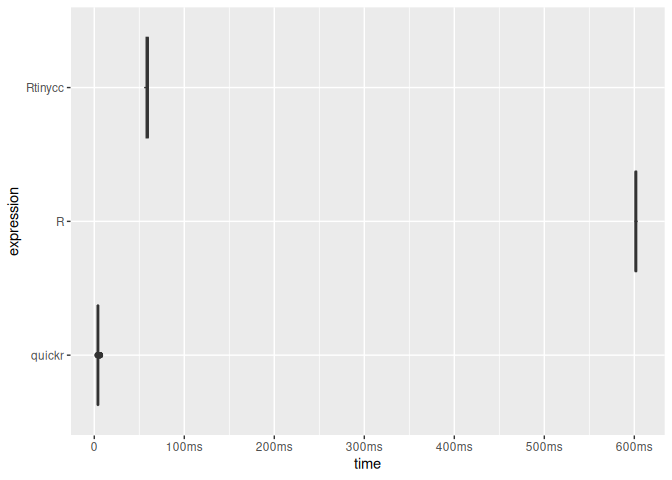
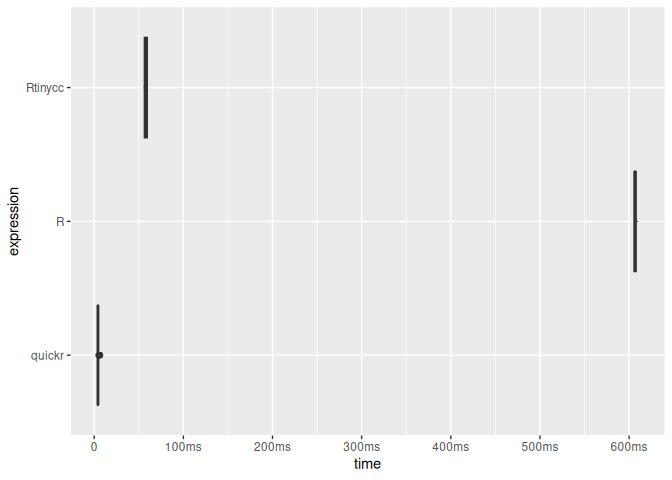
async: api issues

diff --git a/README.md b/README.md
@@ -191,7 +191,7 @@ tcc_read_cstring(ptr)
 tcc_read_bytes(ptr, 5)
 #> [1] 68 65 6c 6c 6f
 tcc_ptr_addr(ptr, hex = TRUE)
-#> [1] "0x5c87880e1b20"
+#> [1] "0x5eb62c5870b0"
 tcc_ptr_is_null(ptr)
 #> [1] FALSE
 tcc_free(ptr)
@@ -222,11 +222,11 @@ through output parameters.
 ptr_ref <- tcc_malloc(.Machine$sizeof.pointer %||% 8L)
 target <- tcc_malloc(8)
 tcc_ptr_set(ptr_ref, target)
-#> <pointer: 0x5c878a4f60a0>
+#> <pointer: 0x5eb62cb28720>
 tcc_data_ptr(ptr_ref)
-#> <pointer: 0x5c87894f6b30>
+#> <pointer: 0x5eb62bde50e0>
 tcc_ptr_set(ptr_ref, tcc_null_ptr())
-#> <pointer: 0x5c878a4f60a0>
+#> <pointer: 0x5eb62cb28720>
 tcc_free(target)
 #> NULL
 tcc_free(ptr_ref)
@@ -289,8 +289,8 @@ bench::mark(
 #> # A tibble: 2 × 6
 #>   expression      min   median `itr/sec` mem_alloc `gc/sec`
 #>   <bch:expr> <bch:tm> <bch:tm>     <dbl> <bch:byt>    <dbl>
-#> 1 Rtinycc      30.8ms   34.8ms      21.4   53.98KB     27.2
-#> 2 Rbuiltin    545.5µs  598.6µs    1579.     9.05KB     28.0
+#> 1 Rtinycc      29.2ms     39ms      23.3   53.98KB     31.0
+#> 2 Rbuiltin    567.7µs    601µs    1571.     9.05KB     28.0
 
 # For performance-sensitive code, move the loop into C and operate on arrays.
 ffi_vec <- tcc_ffi() |>
@@ -319,8 +319,8 @@ bench::mark(
 #> # A tibble: 2 × 6
 #>   expression        min   median `itr/sec` mem_alloc `gc/sec`
 #>   <bch:expr>   <bch:tm> <bch:tm>     <dbl> <bch:byt>    <dbl>
-#> 1 Rtinycc_vec    20.2µs   28.6µs    36328.    39.1KB     25.4
-#> 2 Rbuiltin_vec     17µs   17.7µs    51936.    78.2KB     72.8
+#> 1 Rtinycc_vec    20.2µs   20.7µs    45482.    39.1KB     31.9
+#> 2 Rbuiltin_vec   16.8µs   18.3µs    54908.    78.2KB     77.0
 ```
 
 ### Linking external libraries
@@ -383,7 +383,7 @@ ffi <- tcc_ffi() |>
 
 x <- as.integer(1:100) # to avoid ALTREP
 .Internal(inspect(x))
-#> @5c878bb4dee0 13 INTSXP g0c0 [REF(65535)]  1 : 100 (compact)
+#> @5eb62ffa15d0 13 INTSXP g0c0 [REF(65535)]  1 : 100 (compact)
 ffi$sum_array(x, length(x))
 #> [1] 5050
 
@@ -399,7 +399,7 @@ y[1]
 #> [1] 11
 
 .Internal(inspect(x))
-#> @5c878bb4dee0 13 INTSXP g0c0 [REF(65535)]  11 : 110 (expanded)
+#> @5eb62ffa15d0 13 INTSXP g0c0 [REF(65535)]  11 : 110 (expanded)
 ```
 
 ### Benchmark
@@ -463,9 +463,9 @@ timings
 #> # A tibble: 3 × 6
 #>   expression      min   median `itr/sec` mem_alloc `gc/sec`
 #>   <bch:expr> <bch:tm> <bch:tm>     <dbl> <bch:byt>    <dbl>
-#> 1 R          601.53ms 601.53ms      1.66     847KB    4.99 
-#> 2 quickr       3.63ms   4.07ms    245.       782KB    4.09 
-#> 3 Rtinycc      55.4ms  59.09ms     17.1      782KB    0.504
+#> 1 R          607.24ms 607.24ms      1.65     847KB    4.94 
+#> 2 quickr       3.72ms   4.17ms    240.       782KB    4.10 
+#> 3 Rtinycc     55.34ms  57.79ms     17.3      782KB    0.509
 plot(timings, type = "boxplot") + bench::scale_x_bench_time(base = NULL)
 ```
 
@@ -493,15 +493,15 @@ ffi <- tcc_ffi() |>
 
 p1 <- ffi$struct_point_new()
 ffi$struct_point_set_x(p1, 0.0)
-#> <pointer: 0x5c878d985580>
+#> <pointer: 0x5eb631464140>
 ffi$struct_point_set_y(p1, 0.0)
-#> <pointer: 0x5c878d985580>
+#> <pointer: 0x5eb631464140>
 
 p2 <- ffi$struct_point_new()
 ffi$struct_point_set_x(p2, 3.0)
-#> <pointer: 0x5c878d8a4310>
+#> <pointer: 0x5eb630620010>
 ffi$struct_point_set_y(p2, 4.0)
-#> <pointer: 0x5c878d8a4310>
+#> <pointer: 0x5eb630620010>
 
 ffi$distance(p1, p2)
 #> [1] 5
@@ -546,9 +546,9 @@ ffi <- tcc_ffi() |>
 
 s <- ffi$struct_flags_new()
 ffi$struct_flags_set_active(s, 1L)
-#> <pointer: 0x5c87883ead20>
+#> <pointer: 0x5eb63afa63c0>
 ffi$struct_flags_set_level(s, 9L)
-#> <pointer: 0x5c87883ead20>
+#> <pointer: 0x5eb63afa63c0>
 ffi$struct_flags_get_active(s)
 #> [1] 1
 ffi$struct_flags_get_level(s)
@@ -661,7 +661,8 @@ tcc_callback_close(cb_err)
 For thread-safe scheduling from worker threads, use
 `callback_async:<signature>` in `tcc_bind()`. The callback is enqueued
 from any thread and executed on the main R thread by the async
-dispatcher. Call `tcc_callback_async_enable()` once before use.
+dispatcher. Call `tcc_callback_async_enable()` once before use. In this
+example we spawn 200 threads in C that increment an R global variable.
 
 ``` r
 tcc_callback_async_enable()
@@ -777,7 +778,7 @@ list(ok = isTRUE(rc == 0L), hits = hits, expected = n_calls)
 #> [1] 200
 tcc_callback_close(cb_async)
 end - start
-#> Time difference of 0.2251863 secs
+#> Time difference of 0.2255173 secs
 ```
 
 ### SQLite: a complete example
@@ -931,7 +932,7 @@ ffi <- tcc_ffi() |>
   tcc_compile()
 
 ffi$struct_point_new()
-#> <pointer: 0x5c8787b85940>
+#> <pointer: 0x5eb6301a6410>
 ffi$enum_status_OK()
 #> [1] 0
 ffi$global_global_counter_get()
@@ -984,11 +985,11 @@ ffi <- tcc_ffi() |>
 o <- ffi$struct_outer_new()
 i <- ffi$struct_inner_new()
 ffi$struct_inner_set_a(i, 42L)
-#> <pointer: 0x5c8795e28f20>
+#> <pointer: 0x5eb62eb450c0>
 
 # Write the inner pointer into the outer struct
 ffi$struct_outer_in_addr(o) |> tcc_ptr_set(i)
-#> <pointer: 0x5c8797fa9a40>
+#> <pointer: 0x5eb62df92e20>
 
 # Read it back through indirection
 ffi$struct_outer_in_addr(o) |>
@@ -1017,9 +1018,9 @@ ffi <- tcc_ffi() |>
 
 b <- ffi$struct_buf_new()
 ffi$struct_buf_set_data_elt(b, 0L, 0xCAL)
-#> <pointer: 0x5c87882f0b60>
+#> <pointer: 0x5eb63acf7ba0>
 ffi$struct_buf_set_data_elt(b, 1L, 0xFEL)
-#> <pointer: 0x5c87882f0b60>
+#> <pointer: 0x5eb63acf7ba0>
 ffi$struct_buf_get_data_elt(b, 0L)
 #> [1] 202
 ffi$struct_buf_get_data_elt(b, 1L)
